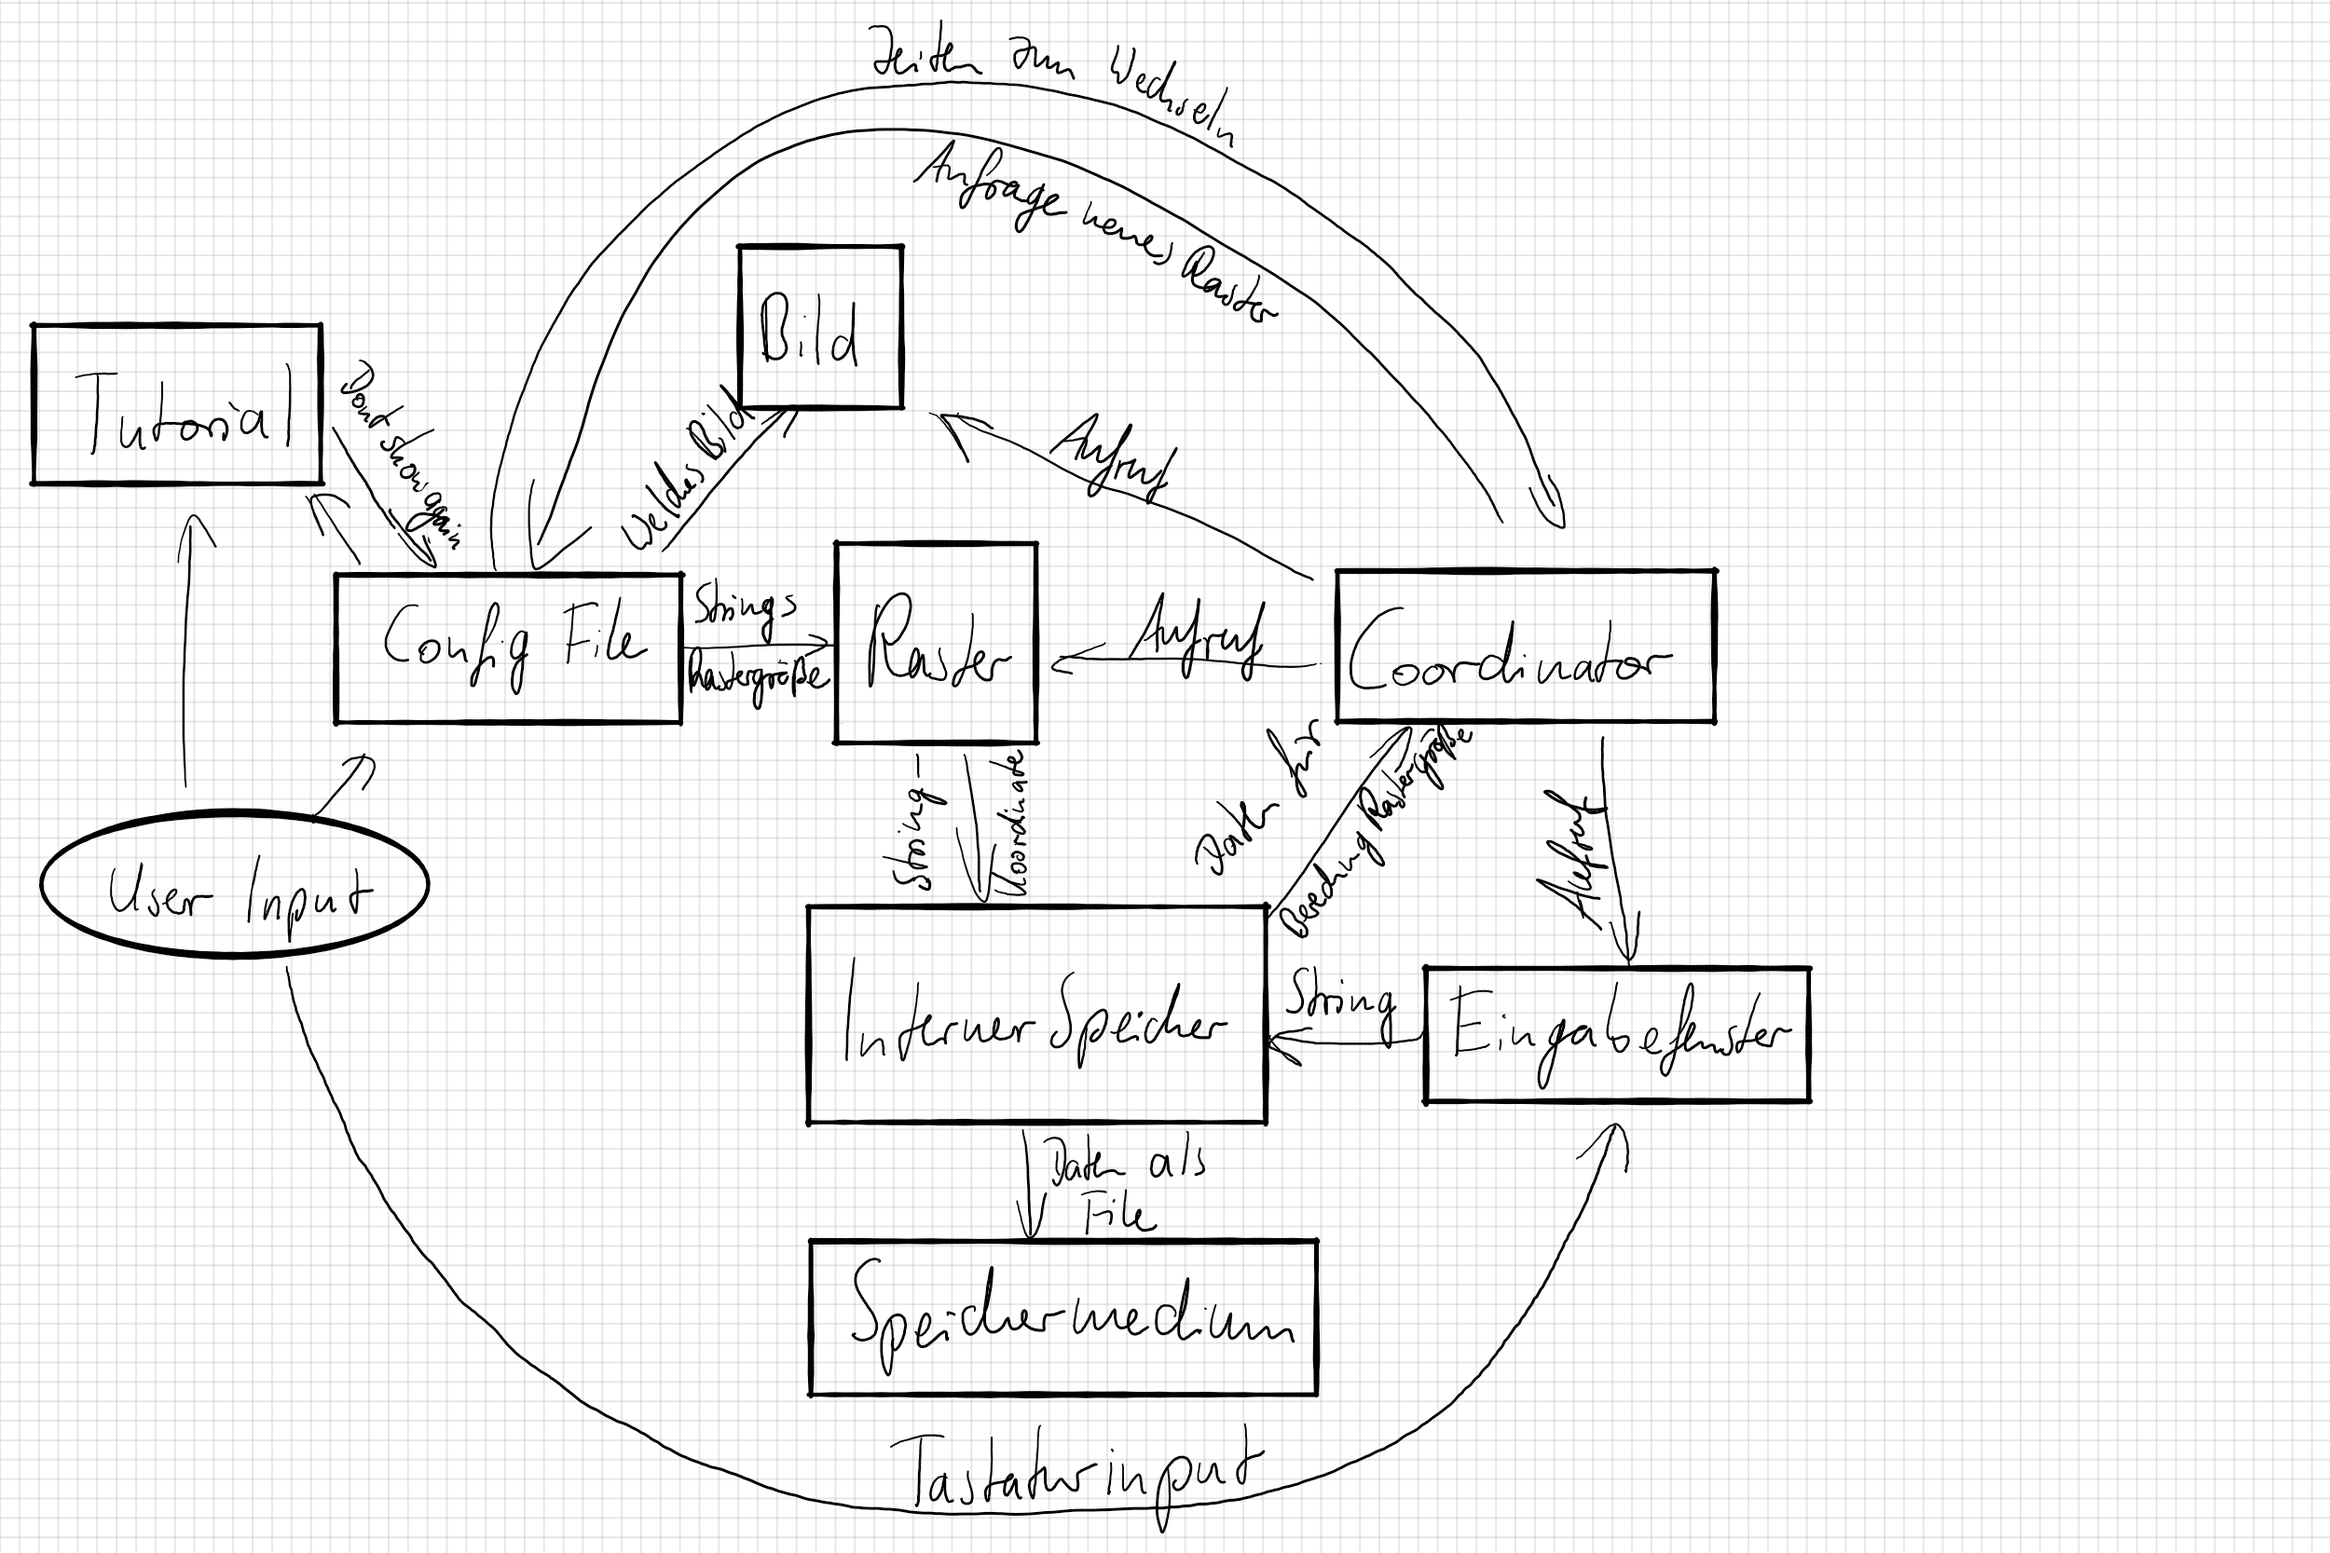
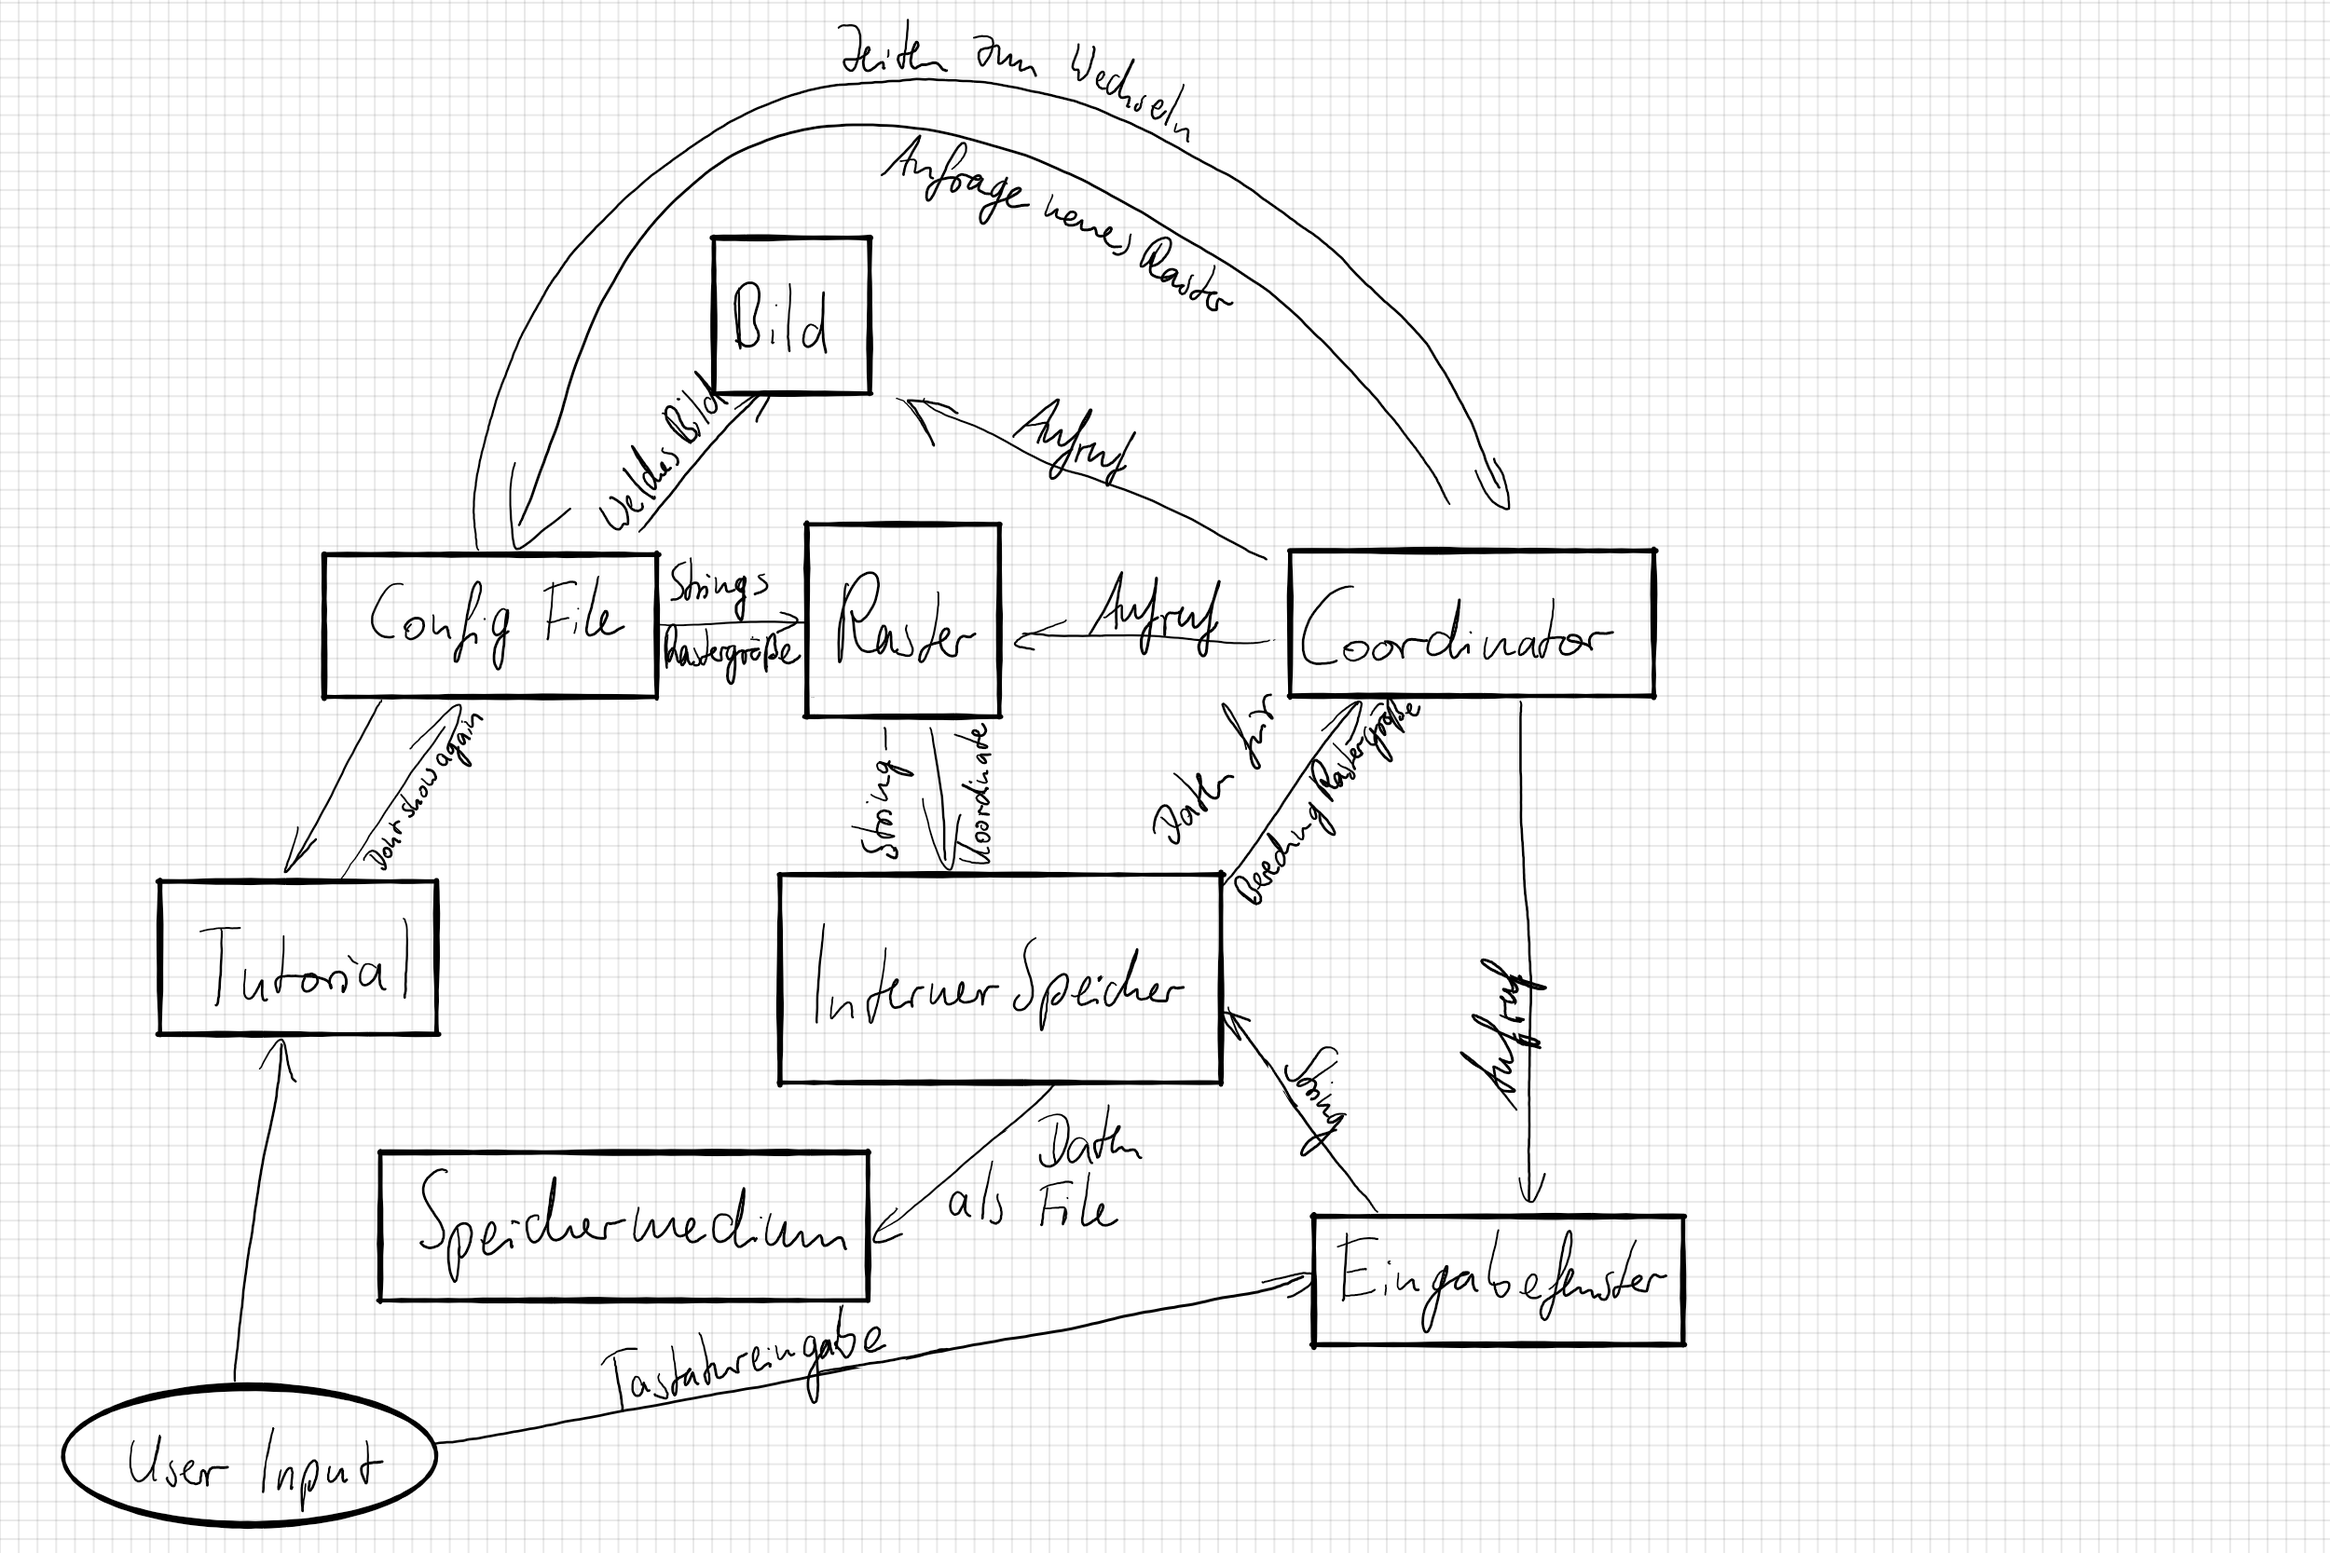
Schon wieder falsches Klassenschema & README Update

diff --git a/meilenstein_02/analyse_code-charts/README.md b/meilenstein_02/analyse_code-charts/README.md
@@ -1,5 +1,6 @@
-# Analyse - {Thema}
+# Analyse - CodeCharts
 <!-- Hier Notizen zum Denkprozess! -->
+Das Interner Speicher Modul erfasst die Daten der Klassen Eingabefenster und Raster, bearbeitet sie und gibt die weiter an die Klassen Coordinator und das Speichermedium. Die Config File bestimmt sämtliche Einstellungen und gibt sie an die entsprechenden Klassen weiter. Die Klassen Bild, Raster und Eingabefenster sind für die Anzeige und Eingabe verantwortlich. Die Coordinator Klasse steuert die Klassen Bild, Raster und Eingabefenster und berechnet die Rastergröße.
 
 ## Verantwortlichkeiten
 <!-- Wissen, welches verwaltet und angeboten wird, Aktion die angeboten werden, öffentliche Leistung -->
@@ -7,11 +8,33 @@
 <!-- Nichts, was eine andere Klasse machen könnte -->
 <!-- Die Sachen die die Klasse macht -> keiner anderen Klasse geben -->
 <!-- zentrale Verantwortlichkeiten vs verteilt -->
+- ChartsCoordinator:
+     - steuert die Anzeige von Bild, Raster und Eingabefenster
+     - berechnet die Rastergröße bei variabler Größe
+- ChartsBild:
+     - zeigt das Bild
+- ChartsRaster:
+     - zegt das Raster mit Strings
+- ChartsEingabefenster:
+     - zeigt das Eingabefenster
+     - nimmt den Nutzerinput entgegen
+- ChartsInterner Speicher:
+     - fasst die Daten geordnet zusammen
+     - verpackt die Dten in eine Datei
+- ChartsTutorial:    
+     - zeigt das Tutorial (auch mehrfach möglich)
 
 ## Kollaborationen
 <!-- Benutzeranfragen an Dienste, die benötigt werden um Veranwortlichkeiten zu erfüllen -->
 <!-- enthüllen Kontroll- und Informationsflüsse, und somit Subsysteme -->
 <!-- Können fehlende Verantwortlichkeiten offenbaren, bzw. fehlerhaft zugewiesene -->
+- Daten werden intern weitergereicht
+
+frende Module:
+- Config-File:
+     - interface mit Bild, Raster, Tutorial und Coordinator Klasse
+- Speichermedium:
+     - interface mit Interner Speicher Klasse
 
 ## Finden von Abstrakten Klassen
 <!-- Konkrete Klassen: Instanziierung und Vererbung
@@ -21,3 +44,6 @@
 <!-- Abstrakte Klassen erben nie von Konkreten Klassen! -->
 <!-- Klassen die keine neue Funktionalität hinzufügen sollten eliminiert werden! -->
 <!-- Letzte Folien der Vorlesung sind hilfreich hierfür! -->
+- abstakte Oberklasse "Bild", von der die Klasse ChartsBild erbt und welche auch in anderen Modulen verwendet werden kann
+-abstakte Oberklasse "Tutorial", von der die Kalsse ChartsTurtorial ebrt und welche auch in anderen Modulen verwendet werden kann
+- eine abstrakte Oberklasse für das Config-FIle Modul lohnt sich nicht, da die Klassen des  CodeCharts Moduls sehr unterschiedliche Werte abfragen
